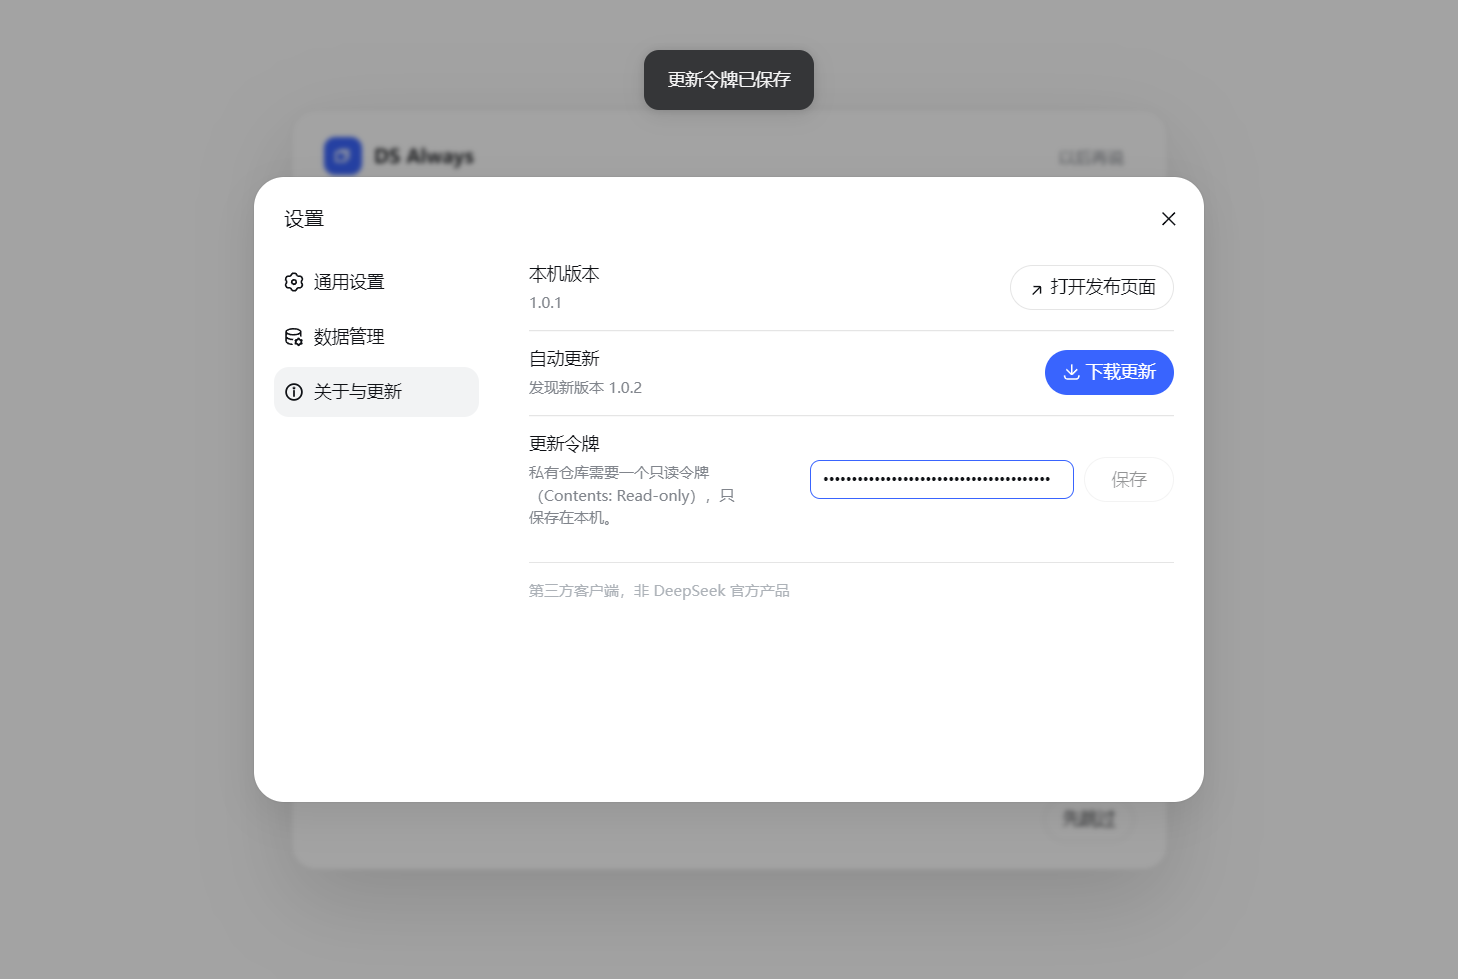
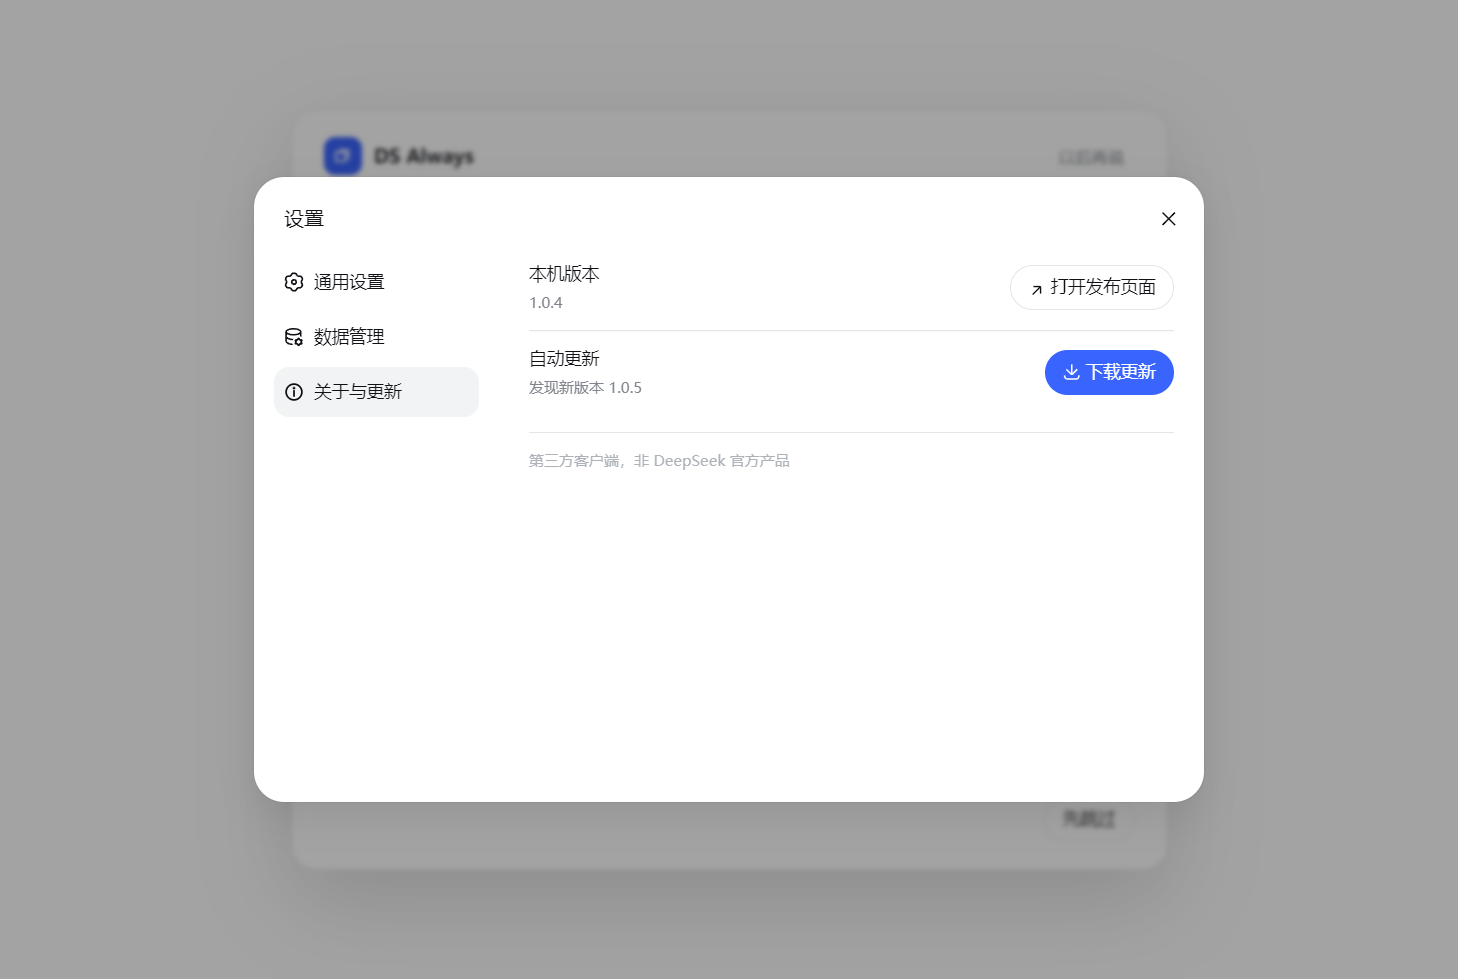
refactor(update): 移除用户侧更新令牌，更新源鉴权完全由发布方打包时决定
- updater: 删除 feedToken/setUpdateToken，仅保留 app-update.yml 内置配置
- 私有仓库缺令牌时提示联系发布方获取最新安装包
- 设置页删除令牌输入行及相关样式/文案/IPC
- bump 1.0.6

diff --git a/src/components/settings/SettingsDialog.tsx b/src/components/settings/SettingsDialog.tsx
@@ -36,7 +36,6 @@ import { Modal } from '../base/Modal.js'
 import { Select } from '../base/Select.js'
 import { showToast } from '../base/toastState.js'
 import {
-  applyUpdateToken,
   checkUpdate,
   downloadUpdate,
   installUpdate,
@@ -585,8 +584,6 @@ const AboutSection = () => {
   const t = useTranslate()
   const { phase, currentVersion, version, percent, message } = useUpdater()
   const onDesktop = isDesktop()
-  const savedToken = useSettings((state) => state.updateToken)
-  const [token, setToken] = useState(savedToken)
 
   const status = (() => {
     if (!onDesktop) {
@@ -684,39 +681,6 @@ const AboutSection = () => {
         </div>
         {action}
       </div>
-      {onDesktop ? (
-        <SettingCell
-          label={t('aboutUpdateTokenLabel')}
-          description={t('aboutUpdateTokenHint')}
-          status={null}
-          action={
-            <div className={styles.tokenRow}>
-              <input
-                className={clsx(styles.tokenInput, !savedToken && styles.tokenInputEmpty)}
-                type="password"
-                aria-label={t('aboutUpdateTokenLabel')}
-                placeholder={t('aboutUpdateTokenPlaceholder')}
-                value={token}
-                onChange={(event) => setToken(event.target.value)}
-              />
-              <Button
-                variant="outlined"
-                size="m"
-                className={styles.cellButton}
-                disabled={token.trim() === savedToken}
-                onClick={() => {
-                  void applyUpdateToken(token).then(() => {
-                    showToast({ key: 'aboutUpdateTokenSaved' })
-                    void checkUpdate()
-                  })
-                }}
-              >
-                {t('aboutUpdateTokenSave')}
-              </Button>
-            </div>
-          }
-        />
-      ) : null}
       <div className={styles.aboutFooter}>{t('aboutThirdParty')}</div>
     </>
   )

diff --git a/src/services/settings.ts b/src/services/settings.ts
@@ -31,8 +31,6 @@ type Settings = {
   memoryEvery: number
   /** 新手引导是否已完成，完成后不再自动弹出 */
   onboardingDone: boolean
-  /** 私有 GitHub 更新源的只读令牌；为空则只能手动下载新版本 */
-  updateToken: string
 }
 
 const KEYS = {
@@ -51,7 +49,6 @@ const KEYS = {
   keepRecent: 'chat-demo:keep-recent',
   memoryEvery: 'chat-demo:memory-every',
   onboardingDone: 'chat-demo:onboarding-done',
-  updateToken: 'chat-demo:update-token',
 } as const
 
 const read = (key: string) => {
@@ -134,7 +131,6 @@ export const useSettings = create<Settings>(() => ({
   keepRecent: readNumber(KEYS.keepRecent, 20, 2, 200),
   memoryEvery: readNumber(KEYS.memoryEvery, 6, 1, 100),
   onboardingDone: read(KEYS.onboardingDone) === 'true',
-  updateToken: read(KEYS.updateToken) ?? '',
 }))
 
 export const setLocale = (locale: Locale) => {
@@ -213,7 +209,3 @@ export const setOnboardingDone = (onboardingDone: boolean) => {
   useSettings.setState({ onboardingDone })
 }
 
-export const setUpdateToken = (updateToken: string) => {
-  write(KEYS.updateToken, updateToken.trim() || null)
-  useSettings.setState({ updateToken: updateToken.trim() })
-}

diff --git a/src/services/update.ts b/src/services/update.ts
@@ -1,6 +1,5 @@
 import { create } from 'zustand'
 import { desktop, type UpdateState } from '../utils/desktop.js'
-import { setUpdateToken, useSettings } from './settings.js'
 
 const initial: UpdateState = {
   phase: 'idle',
@@ -33,21 +32,10 @@ export const initUpdater = async (): Promise<void> => {
     })
   }
   try {
-    // 私有仓库要先给主进程令牌，否则它构建出来的 provider 读不到 release
-    const token = useSettings.getState().updateToken
-    if (token) {
-      await api.updateToken?.(token)
-    }
     useUpdater.setState(await api.updateState())
   } catch {
     // 拿不到就维持初始状态，界面照样渲染
   }
-}
-
-/** 保存用户填的只读令牌，并立刻让主进程换用带鉴权的更新源 */
-export const applyUpdateToken = async (token: string): Promise<void> => {
-  setUpdateToken(token)
-  await desktop()?.updateToken?.(token.trim())
 }
 
 export const checkUpdate = async (): Promise<void> => {

diff --git a/src/components/settings/Settings.module.css b/src/components/settings/Settings.module.css
@@ -467,43 +467,3 @@
   line-height: 1.7;
   color: var(--dsw-alias-label-caption);
 }
-
-.tokenRow {
-  display: flex;
-  align-items: center;
-  gap: 8px;
-  flex-wrap: wrap;
-  justify-content: flex-end;
-}
-
-.tokenInput {
-  width: 190px;
-  height: 30px;
-  padding: 0 10px;
-  font-size: 13px;
-  color: var(--dsw-alias-label-primary);
-  background: var(--dsw-alias-bg-base);
-  border: 1px solid var(--dsw-alias-border-l2);
-  border-radius: 8px;
-}
-
-.tokenInput:focus {
-  outline: none;
-  border-color: var(--dsw-alias-brand-primary);
-}
-
-@media not all and (min-width: 768px) {
-  .tokenRow {
-    width: 100%;
-    justify-content: stretch;
-  }
-
-  .tokenInput {
-    flex: 1 1 100%;
-    width: 100%;
-  }
-}
-
-.tokenInputEmpty {
-  border-color: var(--dsw-alias-brand-primary);
-}

diff --git a/src/i18n/en.ts b/src/i18n/en.ts
@@ -118,11 +118,6 @@ export const en = {
   aboutUpdateNotes: 'Release notes',
   aboutThirdParty: 'Third-party client, not an official DeepSeek product',
   aboutRepoLink: 'Open project releases',
-  aboutUpdateTokenLabel: 'Update token',
-  aboutUpdateTokenHint: 'A read-only token (Contents: Read-only) is required for a private repo. Stored locally only.',
-  aboutUpdateTokenPlaceholder: 'github_pat_… or ghp_…',
-  aboutUpdateTokenSave: 'Save',
-  aboutUpdateTokenSaved: 'Update token saved',
   avatarMenuSettingsDialogThemeItemLabel: 'Theme',
   avatarMenuSettingsDialogThemeSelectLightOption: 'Light',
   avatarMenuSettingsDialogThemeSelectDarkOption: 'Dark',

diff --git a/src/i18n/zh.ts b/src/i18n/zh.ts
@@ -113,11 +113,6 @@ export const zh = {
   aboutUpdateNotes: '更新说明',
   aboutThirdParty: '第三方客户端，非 DeepSeek 官方产品',
   aboutRepoLink: '查看项目发布页',
-  aboutUpdateTokenLabel: '更新令牌',
-  aboutUpdateTokenHint: '私有仓库需要一个只读令牌（Contents: Read-only），只保存在本机。',
-  aboutUpdateTokenPlaceholder: 'github_pat_… 或 ghp_…',
-  aboutUpdateTokenSave: '保存',
-  aboutUpdateTokenSaved: '更新令牌已保存',
   avatarMenuSettingsDialogThemeItemLabel: '主题',
   avatarMenuSettingsDialogThemeSelectLightOption: '浅色',
   avatarMenuSettingsDialogThemeSelectDarkOption: '深色',

diff --git a/src/utils/desktop.ts b/src/utils/desktop.ts
@@ -30,7 +30,6 @@ export type ElectronBridge = {
   version?: string
 
   updateState?: () => Promise<UpdateState>
-  updateToken?: (token: string) => Promise<void>
   updateCheck?: () => Promise<UpdateState>
   updateDownload?: () => Promise<UpdateState>
   updateInstall?: () => Promise<boolean>

diff --git a/src/components/settings/Settings.module.css.d.ts b/src/components/settings/Settings.module.css.d.ts
@@ -36,9 +36,6 @@ declare const styles: {
   readonly "progress": string;
   readonly "progressBar": string;
   readonly "aboutFooter": string;
-  readonly "tokenRow": string;
-  readonly "tokenInput": string;
-  readonly "tokenInputEmpty": string;
 };
 export = styles;
 

diff --git a/README.dsalways.md b/README.dsalways.md
@@ -127,23 +127,20 @@ ERROR: Cannot create symbolic link : 客户没有所需的特权 :
 publish:
   provider: github
   owner: kayz
-  repo: dsalways
-  private: true
+  repo: dsalways-releases   # 只放产物的公开仓库
 ```
 
-客户端是 `electron-updater`：启动后从 `设置 → 关于与更新` 手动检查（`autoDownload = false`，是否下载由用户点），下载完点「重启并安装」，退出时也会自动装上已下载的包。NSIS 的 blockmap 让 96 MB 的包只下几 MB 的差量。
+设计原则：**更新是发布方提供的能力，用户侧不填任何东西。**
 
-私有仓库意味着**匿名请求读不到 `latest.yml`**（GitHub 返回 404）。三种处理方式，按推荐度排：
+- 源码在**私有仓库** `kayz/dsalways`，安装包与 `latest.yml` 放在**公开仓库** `kayz/dsalways-releases` 的 Release 里；
+- 公开仓库意味着匿名就能读到更新清单 → 安装包里**不需要内置任何令牌**，也就没有「谁装谁有令牌」的风险；
+- 客户端界面只有「检查更新 / 下载更新 / 重启并安装」三个动作，**没有让用户填 token 的输入框**。
 
-| 方案 | 做法 | 体验 | 风险 |
-| --- | --- | --- | --- |
-| A. 内置**细粒度**只读令牌（推荐） | 建一个 Fine-grained PAT，仅勾 `kayz/dsalways`、权限 `Contents: Read-only`，打包时 `GH_UPDATE_TOKEN=<token> node scripts/pack.mjs --publish` | 用户零操作，开箱能更新 | 令牌在安装包里（`resources/app-update.yml`），拿到安装包的人都能读；范围仅限这一个仓库的只读 |
-| B. 用户自己粘贴令牌 | 打包时不设 `GH_UPDATE_TOKEN`，用户在设置里填 | 开箱不能更新，会明确提示「请填写只读更新令牌」 | 泄露面为零 |
-| C. 仓库改公开（只公开产物） | `publish` 里去掉 `private: true`，或另建一个只放二进制的公开仓库 | 零操作 | 源码/产物对所有人可见 |
+客户端行为：启动后从 `设置 → 关于与更新` 手动检查（`autoDownload = false`，是否下载由用户点），下载完点「重启并安装」，退出时也会自动装上已下载的包。NSIS 的 blockmap 让 96 MB 的包只下几 MB 的差量。
 
-**不要把 `gh auth token` 那种全权限令牌打进安装包**——它带 `repo`、`workflow` 等全部授权，一旦安装包外流，等于交出整个账号。这也是 v1.0.2 之前两个构建被删掉重发的原因。
+发布：`GH_TOKEN=$(gh auth token) node scripts/pack.mjs --publish`。`--publish` 用的 `GH_TOKEN` 只用来上传，**不会**写进安装包。
 
-`--publish` 用的是 `GH_TOKEN`（发布权限），只有 `GH_UPDATE_TOKEN` 才会被写进 `app-update.yml`，两者不要混用。
+如果哪天要改回「从私有源码仓库更新」：`publish.repo` 改成 `dsalways` 并加 `private: true`，再用 `GH_UPDATE_TOKEN=<细粒度只读 PAT> node scripts/pack.mjs --publish` 打包，令牌会被写进 `app-update.yml`。这种情况下**绝不能用 `gh auth token`**——它带 `repo`、`workflow` 全权限，安装包一旦外流等于交出整个账号。
 
 免安装版（`PORTABLE_EXECUTABLE_DIR` 存在时）会被识别出来并禁用更新——它没有固定安装位置，`autoUpdater` 换不了自己。
 
@@ -165,11 +162,11 @@ publish:
 
 功能链路（导入 → 连续对话 → 压缩 → 记忆）在浏览器构建里用拦截的 mock 接口跑通过：导入一个 v3 格式 ZIP 后连聊 3 轮，压缩请求发了 2 次、记忆抽取发了 2 次，面板显示「原文 2 轮 / 记忆 3 条 / 摘要 67 / 已压缩 4 轮」。
 
-自动更新整条链路用真实私有仓库验收过（1.0.1 → 1.0.2，全部通过界面点击，不调内部接口）：
+自动更新整条链路用真实 Release 验收过（1.0.2 → 1.0.3，全部通过界面点击，不调内部接口，安装包里没有任何令牌）：
 
-1. 未填令牌点「检查更新」→ 提示「更新源是私有仓库：请先在下方填写只读更新令牌…」，不是 404；
-2. 粘贴令牌 → 保存后自动重查 → 「发现新版本 1.0.2」；
-3. 点「下载更新」→ 进度条走完 → 「新版本已下载，重启后安装」，安装按钮 `opacity: 1`、可点击。
+1. 点「检查更新」→ 「发现新版本 1.0.3」；
+2. 点「下载更新」→ 进度条走完 → 「新版本已下载，重启后安装」，安装按钮可点击；
+3. 设置页没有任何需要用户填写的令牌输入框。
 
 ## 已知限制
 
@@ -177,7 +174,7 @@ publish:
 - 只支持上游 `export_format_version: 3` 的归档格式。
 - 摘要与记忆抽取走 `deepseek-flash`，会产生额外 token 费用；压缩只在超过阈值时触发，记忆默认每 6 条回复一次，都可以在面板里调。
 - 未做代码签名，安装时 Windows SmartScreen 可能提示「未知发布者」；macOS 未签名则要用户手动放行。
-- 私有仓库的自动更新需要令牌（见上文三种方案），免安装版不支持自动更新。
+- 自动更新只对安装版生效，免安装版不行；更新源是公开的产物仓库，安装包里不含任何令牌。
 
 ## 许可
 
